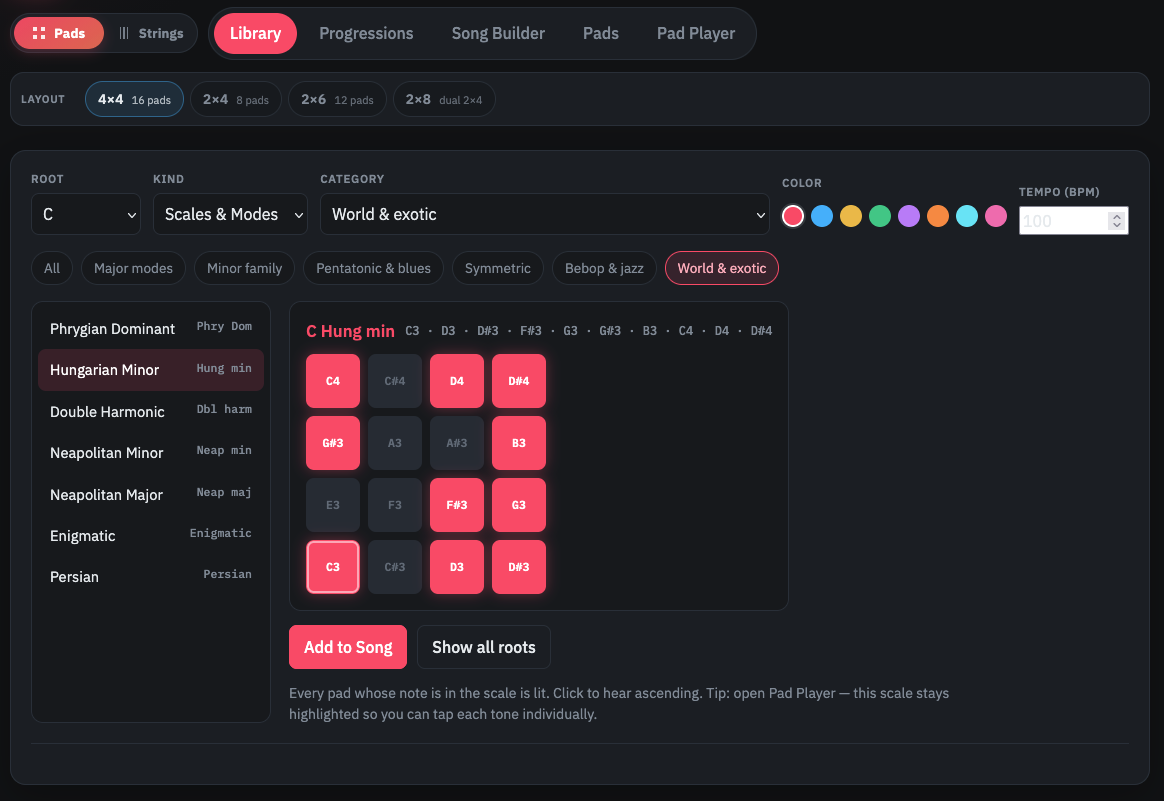
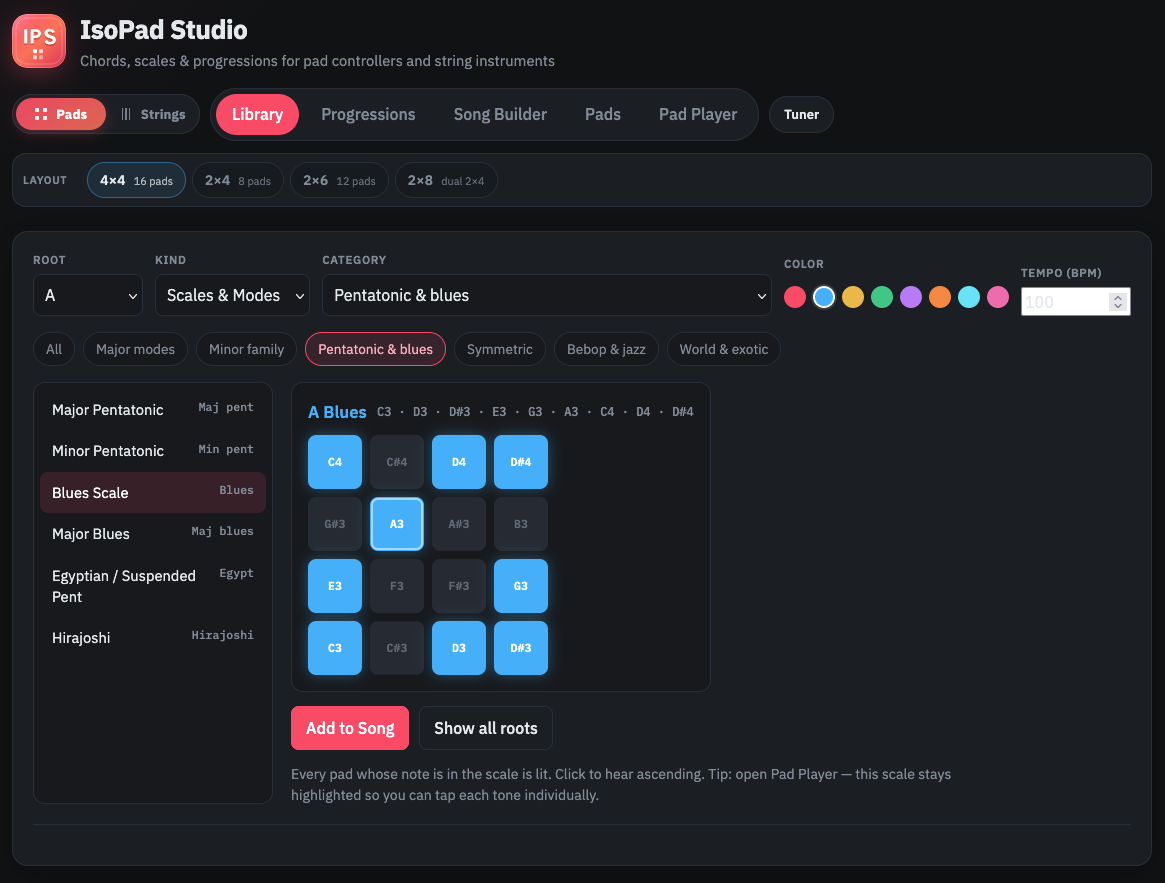
docs: Update README, show tuner

diff --git a/README.md b/README.md
@@ -1,6 +1,6 @@
 # IsoPad Studio
 
-**Look up chords, scales, modes, and progressions** for pad controllers and string instruments — then see exactly which pads or frets to play.
+**Look up chords, scales, modes, and progressions** for pad controllers and string instruments — then see exactly which pads or frets to play. There’s also a free **chromatic tuner** in the header so you can tune before you practice, right in the browser.
 
 Built for people with gear like:
 
@@ -42,11 +42,13 @@ For architecture, data shapes, UI contracts, and agent instructions, see **[SPEC
 
 ## Screenshots
 
-![C Hungarian Minor on a 4×4 pad grid in the Library](screenshots/readme-pads-4x4.png)
+![A Blues on a 4×4 pad grid in the Library](screenshots/readme-pads-4x4.png)
 
-![C Hungarian Minor on 6-string guitar (standard EADGBE) in the Library](screenshots/readme-guitar.png)
+![A Blues on 6-string guitar (standard EADGBE) in the Library](screenshots/readme-guitar.png)
 
-Same scale on **Pads · 4×4**, then **Strings · Guitar** (standard tuning) — pick a formula, see the chart, click to hear it. More walkthroughs: **[User manual](MANUAL.md)**.
+![Chromatic tuner popup showing A♯3](screenshots/readme-tuner.png)
+
+Same scale on **Pads · 4×4**, then **Strings · Guitar**, plus the **Tuner** popup (mic stays in your browser). More walkthroughs: **[User manual](MANUAL.md)**.
 
 ## Features
 